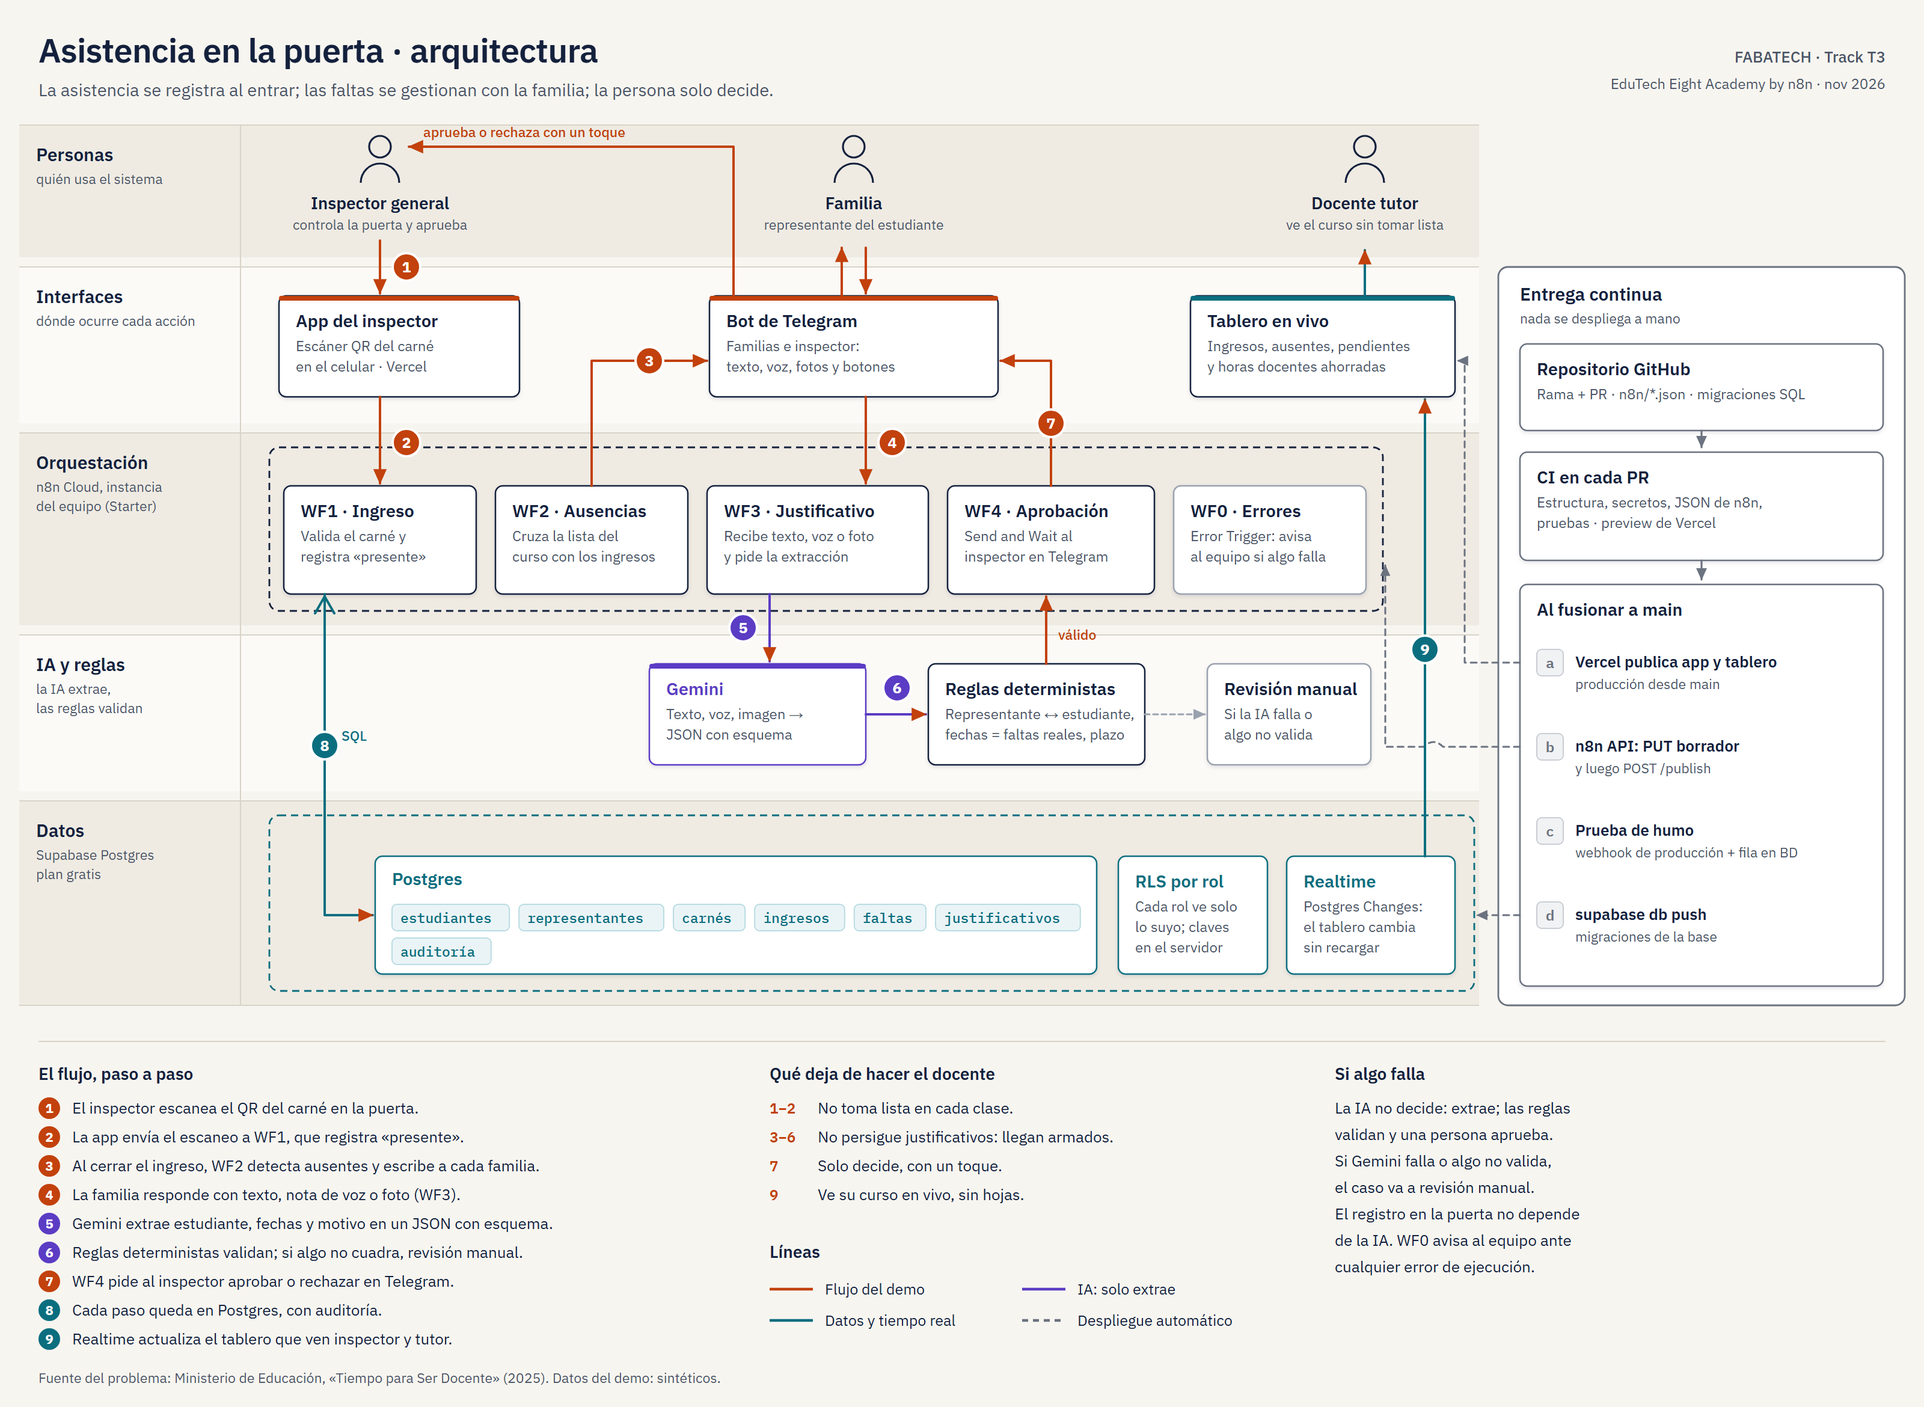
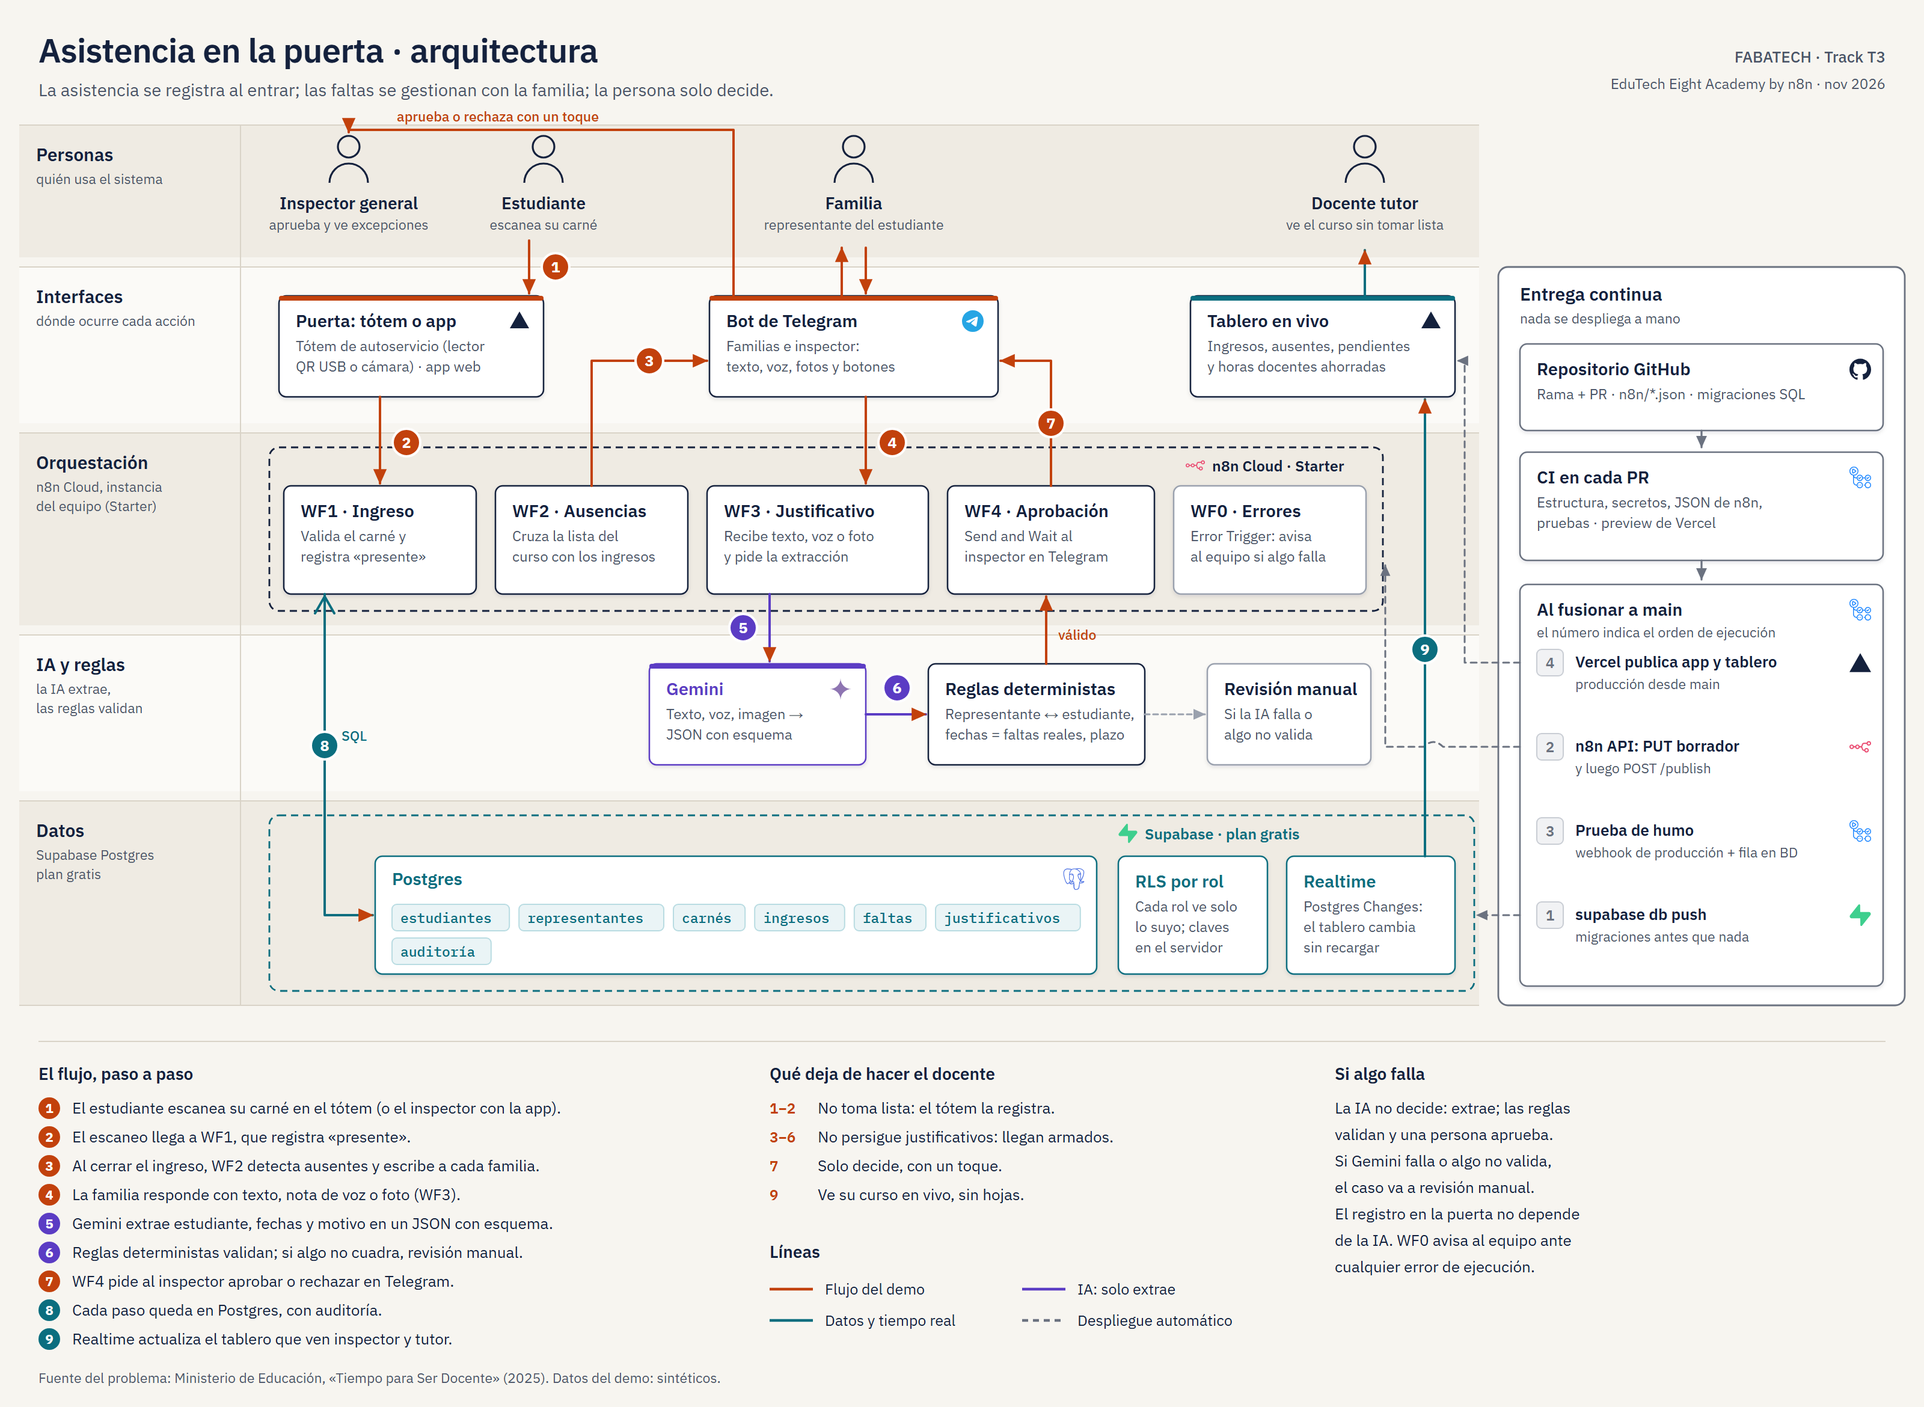
docs: diagrama con íconos oficiales, tótem de autoservicio y orden de despliegue

diff --git a/scripts/diagrama_arquitectura.py b/scripts/diagrama_arquitectura.py
@@ -58,6 +58,14 @@ def person(cx, top, name, role):
     text(cx, top + 79, role, 11.5, 400, SUB, "middle")
 
 
+ICONS = {'github': 'M12 .297c-6.63 0-12 5.373-12 12 0 5.303 3.438 9.8 8.205 11.385.6.113.82-.258.82-.577 0-.285-.01-1.04-.015-2.04-3.338.724-4.042-1.61-4.042-1.61C4.422 18.07 3.633 17.7 3.633 17.7c-1.087-.744.084-.729.084-.729 1.205.084 1.838 1.236 1.838 1.236 1.07 1.835 2.809 1.305 3.495.998.108-.776.417-1.305.76-1.605-2.665-.3-5.466-1.332-5.466-5.93 0-1.31.465-2.38 1.235-3.22-.135-.303-.54-1.523.105-3.176 0 0 1.005-.322 3.3 1.23.96-.267 1.98-.399 3-.405 1.02.006 2.04.138 3 .405 2.28-1.552 3.285-1.23 3.285-1.23.645 1.653.24 2.873.12 3.176.765.84 1.23 1.91 1.23 3.22 0 4.61-2.805 5.625-5.475 5.92.42.36.81 1.096.81 2.22 0 1.606-.015 2.896-.015 3.286 0 .315.21.69.825.57C20.565 22.092 24 17.592 24 12.297c0-6.627-5.373-12-12-12', 'githubactions': 'M10.984 13.836a.5.5 0 0 1-.353-.146l-.745-.743a.5.5 0 1 1 .706-.708l.392.391 1.181-1.18a.5.5 0 0 1 .708.707l-1.535 1.533a.504.504 0 0 1-.354.146zm9.353-.147l1.534-1.532a.5.5 0 0 0-.707-.707l-1.181 1.18-.392-.391a.5.5 0 1 0-.706.708l.746.743a.497.497 0 0 0 .706-.001zM4.527 7.452l2.557-1.585A1 1 0 0 0 7.09 4.17L4.533 2.56A1 1 0 0 0 3 3.406v3.196a1.001 1.001 0 0 0 1.527.85zm2.03-2.436L4 6.602V3.406l2.557 1.61zM24 12.5c0 1.93-1.57 3.5-3.5 3.5a3.503 3.503 0 0 1-3.46-3h-2.08a3.503 3.503 0 0 1-3.46 3 3.502 3.502 0 0 1-3.46-3h-.558c-.972 0-1.85-.399-2.482-1.042V17c0 1.654 1.346 3 3 3h.04c.244-1.693 1.7-3 3.46-3 1.93 0 3.5 1.57 3.5 3.5S13.43 24 11.5 24a3.502 3.502 0 0 1-3.46-3H8c-2.206 0-4-1.794-4-4V9.899A5.008 5.008 0 0 1 0 5c0-2.757 2.243-5 5-5s5 2.243 5 5a5.005 5.005 0 0 1-4.952 4.998A2.482 2.482 0 0 0 7.482 12h.558c.244-1.693 1.7-3 3.46-3a3.502 3.502 0 0 1 3.46 3h2.08a3.503 3.503 0 0 1 3.46-3c1.93 0 3.5 1.57 3.5 3.5zm-15 8c0 1.378 1.122 2.5 2.5 2.5s2.5-1.122 2.5-2.5-1.122-2.5-2.5-2.5S9 19.122 9 20.5zM5 9c2.206 0 4-1.794 4-4S7.206 1 5 1 1 2.794 1 5s1.794 4 4 4zm9 3.5c0-1.378-1.122-2.5-2.5-2.5S9 11.122 9 12.5s1.122 2.5 2.5 2.5 2.5-1.122 2.5-2.5zm9 0c0-1.378-1.122-2.5-2.5-2.5S18 11.122 18 12.5s1.122 2.5 2.5 2.5 2.5-1.122 2.5-2.5zm-13 8a.5.5 0 1 0 1 0 .5.5 0 0 0-1 0zm2 0a.5.5 0 1 0 1 0 .5.5 0 0 0-1 0zm12 0c0 1.93-1.57 3.5-3.5 3.5a3.503 3.503 0 0 1-3.46-3.002c-.007.001-.013.005-.021.005l-.506.017h-.017a.5.5 0 0 1-.016-.999l.506-.017c.018-.002.035.006.052.007A3.503 3.503 0 0 1 20.5 17c1.93 0 3.5 1.57 3.5 3.5zm-1 0c0-1.378-1.122-2.5-2.5-2.5S18 19.122 18 20.5s1.122 2.5 2.5 2.5 2.5-1.122 2.5-2.5z', 'googlegemini': 'M11.04 19.32Q12 21.51 12 24q0-2.49.93-4.68.96-2.19 2.58-3.81t3.81-2.55Q21.51 12 24 12q-2.49 0-4.68-.93a12.3 12.3 0 0 1-3.81-2.58 12.3 12.3 0 0 1-2.58-3.81Q12 2.49 12 0q0 2.49-.96 4.68-.93 2.19-2.55 3.81a12.3 12.3 0 0 1-3.81 2.58Q2.49 12 0 12q2.49 0 4.68.96 2.19.93 3.81 2.55t2.55 3.81', 'n8n': 'M21.4737 5.6842c-1.1772 0-2.1663.8051-2.4468 1.8947h-2.8955c-1.235 0-2.289.893-2.492 2.111l-.1038.623a1.263 1.263 0 0 1-1.246 1.0555H11.289c-.2805-1.0896-1.2696-1.8947-2.4468-1.8947s-2.1663.8051-2.4467 1.8947H4.973c-.2805-1.0896-1.2696-1.8947-2.4468-1.8947C1.1311 9.4737 0 10.6047 0 12s1.131 2.5263 2.5263 2.5263c1.1772 0 2.1663-.8051 2.4468-1.8947h1.4223c.2804 1.0896 1.2696 1.8947 2.4467 1.8947 1.1772 0 2.1663-.8051 2.4468-1.8947h1.0008a1.263 1.263 0 0 1 1.2459 1.0555l.1038.623c.203 1.218 1.257 2.111 2.492 2.111h.3692c.2804 1.0895 1.2696 1.8947 2.4468 1.8947 1.3952 0 2.5263-1.131 2.5263-2.5263s-1.131-2.5263-2.5263-2.5263c-1.1772 0-2.1664.805-2.4468 1.8947h-.3692a1.263 1.263 0 0 1-1.246-1.0555l-.1037-.623A2.52 2.52 0 0 0 13.9607 12a2.52 2.52 0 0 0 .821-1.4794l.1038-.623a1.263 1.263 0 0 1 1.2459-1.0555h2.8955c.2805 1.0896 1.2696 1.8947 2.4468 1.8947 1.3952 0 2.5263-1.131 2.5263-2.5263s-1.131-2.5263-2.5263-2.5263m0 1.2632a1.263 1.263 0 0 1 1.2631 1.2631 1.263 1.263 0 0 1-1.2631 1.2632 1.263 1.263 0 0 1-1.2632-1.2632 1.263 1.263 0 0 1 1.2632-1.2631M2.5263 10.7368A1.263 1.263 0 0 1 3.7895 12a1.263 1.263 0 0 1-1.2632 1.2632A1.263 1.263 0 0 1 1.2632 12a1.263 1.263 0 0 1 1.2631-1.2632m6.3158 0A1.263 1.263 0 0 1 10.1053 12a1.263 1.263 0 0 1-1.2632 1.2632A1.263 1.263 0 0 1 7.579 12a1.263 1.263 0 0 1 1.2632-1.2632m10.1053 3.7895a1.263 1.263 0 0 1 1.2631 1.2632 1.263 1.263 0 0 1-1.2631 1.2631 1.263 1.263 0 0 1-1.2632-1.2631 1.263 1.263 0 0 1 1.2632-1.2632', 'postgresql': 'M23.5594 14.7228a.5269.5269 0 0 0-.0563-.1191c-.139-.2632-.4768-.3418-1.0074-.2321-1.6533.3411-2.2935.1312-2.5256-.0191 1.342-2.0482 2.445-4.522 3.0411-6.8297.2714-1.0507.7982-3.5237.1222-4.7316a1.5641 1.5641 0 0 0-.1509-.235C21.6931.9086 19.8007.0248 17.5099.0005c-1.4947-.0158-2.7705.3461-3.1161.4794a9.449 9.449 0 0 0-.5159-.0816 8.044 8.044 0 0 0-1.3114-.1278c-1.1822-.0184-2.2038.2642-3.0498.8406-.8573-.3211-4.7888-1.645-7.2219.0788C.9359 2.1526.3086 3.8733.4302 6.3043c.0409.818.5069 3.334 1.2423 5.7436.4598 1.5065.9387 2.7019 1.4334 3.582.553.9942 1.1259 1.5933 1.7143 1.7895.4474.1491 1.1327.1441 1.8581-.7279.8012-.9635 1.5903-1.8258 1.9446-2.2069.4351.2355.9064.3625 1.39.3772a.0569.0569 0 0 0 .0004.0041 11.0312 11.0312 0 0 0-.2472.3054c-.3389.4302-.4094.5197-1.5002.7443-.3102.064-1.1344.2339-1.1464.8115-.0025.1224.0329.2309.0919.3268.2269.4231.9216.6097 1.015.6331 1.3345.3335 2.5044.092 3.3714-.6787-.017 2.231.0775 4.4174.3454 5.0874.2212.5529.7618 1.9045 2.4692 1.9043.2505 0 .5263-.0291.8296-.0941 1.7819-.3821 2.5557-1.1696 2.855-2.9059.1503-.8707.4016-2.8753.5388-4.1012.0169-.0703.0357-.1207.057-.1362.0007-.0005.0697-.0471.4272.0307a.3673.3673 0 0 0 .0443.0068l.2539.0223.0149.001c.8468.0384 1.9114-.1426 2.5312-.4308.6438-.2988 1.8057-1.0323 1.5951-1.6698zM2.371 11.8765c-.7435-2.4358-1.1779-4.8851-1.2123-5.5719-.1086-2.1714.4171-3.6829 1.5623-4.4927 1.8367-1.2986 4.8398-.5408 6.108-.13-.0032.0032-.0066.0061-.0098.0094-2.0238 2.044-1.9758 5.536-1.9708 5.7495-.0002.0823.0066.1989.0162.3593.0348.5873.0996 1.6804-.0735 2.9184-.1609 1.1504.1937 2.2764.9728 3.0892.0806.0841.1648.1631.2518.2374-.3468.3714-1.1004 1.1926-1.9025 2.1576-.5677.6825-.9597.5517-1.0886.5087-.3919-.1307-.813-.5871-1.2381-1.3223-.4796-.839-.9635-2.0317-1.4155-3.5126zm6.0072 5.0871c-.1711-.0428-.3271-.1132-.4322-.1772.0889-.0394.2374-.0902.4833-.1409 1.2833-.2641 1.4815-.4506 1.9143-1.0002.0992-.126.2116-.2687.3673-.4426a.3549.3549 0 0 0 .0737-.1298c.1708-.1513.2724-.1099.4369-.0417.156.0646.3078.26.3695.4752.0291.1016.0619.2945-.0452.4444-.9043 1.2658-2.2216 1.2494-3.1676 1.0128zm2.094-3.988-.0525.141c-.133.3566-.2567.6881-.3334 1.003-.6674-.0021-1.3168-.2872-1.8105-.8024-.6279-.6551-.9131-1.5664-.7825-2.5004.1828-1.3079.1153-2.4468.079-3.0586-.005-.0857-.0095-.1607-.0122-.2199.2957-.2621 1.6659-.9962 2.6429-.7724.4459.1022.7176.4057.8305.928.5846 2.7038.0774 3.8307-.3302 4.7363-.084.1866-.1633.3629-.2311.5454zm7.3637 4.5725c-.0169.1768-.0358.376-.0618.5959l-.146.4383a.3547.3547 0 0 0-.0182.1077c-.0059.4747-.054.6489-.115.8693-.0634.2292-.1353.4891-.1794 1.0575-.11 1.4143-.8782 2.2267-2.4172 2.5565-1.5155.3251-1.7843-.4968-2.0212-1.2217a6.5824 6.5824 0 0 0-.0769-.2266c-.2154-.5858-.1911-1.4119-.1574-2.5551.0165-.5612-.0249-1.9013-.3302-2.6462.0044-.2932.0106-.5909.019-.8918a.3529.3529 0 0 0-.0153-.1126 1.4927 1.4927 0 0 0-.0439-.208c-.1226-.4283-.4213-.7866-.7797-.9351-.1424-.059-.4038-.1672-.7178-.0869.067-.276.1831-.5875.309-.9249l.0529-.142c.0595-.16.134-.3257.213-.5012.4265-.9476 1.0106-2.2453.3766-5.1772-.2374-1.0981-1.0304-1.6343-2.2324-1.5098-.7207.0746-1.3799.3654-1.7088.5321a5.6716 5.6716 0 0 0-.1958.1041c.0918-1.1064.4386-3.1741 1.7357-4.4823a4.0306 4.0306 0 0 1 .3033-.276.3532.3532 0 0 0 .1447-.0644c.7524-.5706 1.6945-.8506 2.802-.8325.4091.0067.8017.0339 1.1742.081 1.939.3544 3.2439 1.4468 4.0359 2.3827.8143.9623 1.2552 1.9315 1.4312 2.4543-1.3232-.1346-2.2234.1268-2.6797.779-.9926 1.4189.543 4.1729 1.2811 5.4964.1353.2426.2522.4522.2889.5413.2403.5825.5515.9713.7787 1.2552.0696.087.1372.1714.1885.245-.4008.1155-1.1208.3825-1.0552 1.717-.0123.1563-.0423.4469-.0834.8148-.0461.2077-.0702.4603-.0994.7662zm.8905-1.6211c-.0405-.8316.2691-.9185.5967-1.0105a2.8566 2.8566 0 0 0 .135-.0406 1.202 1.202 0 0 0 .1342.103c.5703.3765 1.5823.4213 3.0068.1344-.2016.1769-.5189.3994-.9533.6011-.4098.1903-1.0957.333-1.7473.3636-.7197.0336-1.0859-.0807-1.1721-.151zm.5695-9.2712c-.0059.3508-.0542.6692-.1054 1.0017-.055.3576-.112.7274-.1264 1.1762-.0142.4368.0404.8909.0932 1.3301.1066.887.216 1.8003-.2075 2.7014a3.5272 3.5272 0 0 1-.1876-.3856c-.0527-.1276-.1669-.3326-.3251-.6162-.6156-1.1041-2.0574-3.6896-1.3193-4.7446.3795-.5427 1.3408-.5661 2.1781-.463zm.2284 7.0137a12.3762 12.3762 0 0 0-.0853-.1074l-.0355-.0444c.7262-1.1995.5842-2.3862.4578-3.4385-.0519-.4318-.1009-.8396-.0885-1.2226.0129-.4061.0666-.7543.1185-1.0911.0639-.415.1288-.8443.1109-1.3505.0134-.0531.0188-.1158.0118-.1902-.0457-.4855-.5999-1.938-1.7294-3.253-.6076-.7073-1.4896-1.4972-2.6889-2.0395.5251-.1066 1.2328-.2035 2.0244-.1859 2.0515.0456 3.6746.8135 4.8242 2.2824a.908.908 0 0 1 .0667.1002c.7231 1.3556-.2762 6.2751-2.9867 10.5405zm-8.8166-6.1162c-.025.1794-.3089.4225-.6211.4225a.5821.5821 0 0 1-.0809-.0056c-.1873-.026-.3765-.144-.5059-.3156-.0458-.0605-.1203-.178-.1055-.2844.0055-.0401.0261-.0985.0925-.1488.1182-.0894.3518-.1226.6096-.0867.3163.0441.6426.1938.6113.4186zm7.9305-.4114c.0111.0792-.049.201-.1531.3102-.0683.0717-.212.1961-.4079.2232a.5456.5456 0 0 1-.075.0052c-.2935 0-.5414-.2344-.5607-.3717-.024-.1765.2641-.3106.5611-.352.297-.0414.6111.0088.6356.1851z', 'supabase': 'M11.9 1.036c-.015-.986-1.26-1.41-1.874-.637L.764 12.05C-.33 13.427.65 15.455 2.409 15.455h9.579l.113 7.51c.014.985 1.259 1.408 1.873.636l9.262-11.653c1.093-1.375.113-3.403-1.645-3.403h-9.642z', 'telegram': 'M11.944 0A12 12 0 0 0 0 12a12 12 0 0 0 12 12 12 12 0 0 0 12-12A12 12 0 0 0 12 0a12 12 0 0 0-.056 0zm4.962 7.224c.1-.002.321.023.465.14a.506.506 0 0 1 .171.325c.016.093.036.306.02.472-.18 1.898-.962 6.502-1.36 8.627-.168.9-.499 1.201-.82 1.23-.696.065-1.225-.46-1.9-.902-1.056-.693-1.653-1.124-2.678-1.8-1.185-.78-.417-1.21.258-1.91.177-.184 3.247-2.977 3.307-3.23.007-.032.014-.15-.056-.212s-.174-.041-.249-.024c-.106.024-1.793 1.14-5.061 3.345-.48.33-.913.49-1.302.48-.428-.008-1.252-.241-1.865-.44-.752-.245-1.349-.374-1.297-.789.027-.216.325-.437.893-.663 3.498-1.524 5.83-2.529 6.998-3.014 3.332-1.386 4.025-1.627 4.476-1.635z', 'vercel': 'M24 22.525H0l12-21.05 12 21.05z'}
+
+
+def icon(slug, x, y, size, color):
+    k = size / 24
+    add(f'<g transform="translate({x} {y}) scale({k})"><path d="{ICONS[slug]}" fill="{color}"/></g>')
+
+
 # ---------- lienzo ----------
 add(f'<rect width="{W}" height="{H}" fill="{PAPER}"/>')
 text(32, 52, "Asistencia en la puerta · arquitectura", 28, 600, INK, spacing=-0.4)
@@ -83,17 +91,23 @@ add('<line x1="200" y1="104" x2="200" y2="836" stroke="#D9D3C7" stroke-width="1"
 add('<line x1="16" y1="836" x2="1230" y2="836" stroke="#D9D3C7" stroke-width="1"/>')
 
 # ---------- A · personas ----------
-person(316, 112, "Inspector general", "controla la puerta y aprueba")
+person(290, 112, "Inspector general", "aprueba y ve excepciones")
+person(452, 112, "Estudiante", "escanea su carné")
 person(710, 112, "Familia", "representante del estudiante")
 person(1135, 112, "Docente tutor", "ve el curso sin tomar lista")
 
 # ---------- B · interfaces ----------
-box(232, 246, 200, 84, "App del inspector", ["Escáner QR del carné", "en el celular · Vercel"], accent=FLOW)
+box(232, 246, 220, 84, "Puerta: tótem o app", ["Tótem de autoservicio (lector", "QR USB o cámara) · app web"], accent=FLOW)
+icon("vercel", 424, 258, 16, INK)
 box(590, 246, 240, 84, "Bot de Telegram", ["Familias e inspector:", "texto, voz, fotos y botones"], accent=FLOW)
+icon("telegram", 800, 258, 18, "#26A5E4")
 box(990, 246, 220, 84, "Tablero en vivo", ["Ingresos, ausentes, pendientes", "y horas docentes ahorradas"], accent=DATA)
+icon("vercel", 1182, 258, 16, INK)
 
 # ---------- C · n8n ----------
 add(f'<rect x="224" y="372" width="926" height="136" rx="8" fill="none" stroke="{INK}" stroke-width="1.4" stroke-dasharray="6 4"/>')
+icon("n8n", 986, 379, 16, "#EA4B71")
+text(1008, 392, "n8n Cloud · Starter", 12.5, 600, INK)
 box(236, 404, 160, 90, "WF1 · Ingreso", ["Valida el carné y", "registra «presente»"])
 box(412, 404, 160, 90, "WF2 · Ausencias", ["Cruza la lista del", "curso con los ingresos"])
 box(588, 404, 184, 90, "WF3 · Justificativo", ["Recibe texto, voz o foto", "y pide la extracción"])
@@ -102,6 +116,7 @@ box(976, 404, 160, 90, "WF0 · Errores", ["Error Trigger: avisa", "al equipo si 
 
 # ---------- D · IA y reglas ----------
 box(540, 552, 180, 84, "Gemini", ["Texto, voz, imagen →", "JSON con esquema"], stroke=AI, title_fill=AI, accent=AI)
+icon("googlegemini", 690, 564, 18, "#8E75B2")
 box(772, 552, 180, 84, "Reglas deterministas", ["Representante ↔ estudiante,", "fechas = faltas reales, plazo"])
 box(1004, 552, 136, 84, "Revisión manual", ["Si la IA falla o", "algo no valida"], stroke="#9AA1AE")
 
@@ -109,6 +124,9 @@ box(1004, 552, 136, 84, "Revisión manual", ["Si la IA falla o", "algo no valida
 add(f'<rect x="224" y="678" width="1002" height="146" rx="8" fill="none" stroke="{DATA}" stroke-width="1.4" stroke-dasharray="6 4"/>')
 add(f'<rect x="312" y="712" width="600" height="98" rx="6" fill="#FFFFFF" stroke="{DATA}" stroke-width="1.25" filter="url(#lift)"/>')
 text(326, 736, "Postgres", 14.5, 600, DATA)
+icon("postgresql", 884, 722, 18, "#4169E1")
+icon("supabase", 930, 685, 16, "#3ECF8E")
+text(952, 698, "Supabase · plan gratis", 12.5, 600, DATA)
 chips = ["estudiantes", "representantes", "carnés", "ingresos", "faltas", "justificativos", "auditoría"]
 cx, cy = 326, 752
 for c in chips:
@@ -126,23 +144,28 @@ add(f'<rect x="1246" y="222" width="338" height="614" rx="8" fill="#FFFFFF" stro
 text(1264, 250, "Entrega continua", 15, 600, INK)
 text(1264, 269, "nada se despliega a mano", 11.5, 400, SUB)
 box(1264, 286, 302, 72, "Repositorio GitHub", ["Rama + PR · n8n/*.json · migraciones SQL"], stroke=DEPLOY)
+icon("github", 1538, 298, 18, INK)
 box(1264, 376, 302, 90, "CI en cada PR", ["Estructura, secretos, JSON de n8n,", "pruebas · preview de Vercel"], stroke=DEPLOY)
+icon("githubactions", 1538, 388, 18, "#2088FF")
 path("M1415 358 L1415 372", DEPLOY, 1.6, marker="arrg")
 path("M1415 466 L1415 482", DEPLOY, 1.6, marker="arrg")
 add(f'<rect x="1264" y="486" width="302" height="334" rx="6" fill="#FFFFFF" stroke="{DEPLOY}" stroke-width="1.25" filter="url(#lift)"/>')
 text(1278, 512, "Al fusionar a main", 14.5, 600, INK)
+icon("githubactions", 1538, 498, 18, "#2088FF")
+text(1278, 530, "el número indica el orden de ejecución", 11.5, 400, SUB)
 steps = [
-    ("a", "Vercel publica app y tablero", "producción desde main"),
-    ("b", "n8n API: PUT borrador", "y luego POST /publish"),
-    ("c", "Prueba de humo", "webhook de producción + fila en BD"),
-    ("d", "supabase db push", "migraciones de la base"),
+    ("4", "Vercel publica app y tablero", "producción desde main", "vercel", INK),
+    ("2", "n8n API: PUT borrador", "y luego POST /publish", "n8n", "#EA4B71"),
+    ("3", "Prueba de humo", "webhook de producción + fila en BD", "githubactions", "#2088FF"),
+    ("1", "supabase db push", "migraciones antes que nada", "supabase", "#3ECF8E"),
 ]
-for i, (k, t1, t2) in enumerate(steps):
+for i, (k, t1, t2, ic, icc) in enumerate(steps):
     y0 = 540 + i * 70
     add(f'<rect x="1278" y="{y0}" width="22" height="22" rx="4" fill="#F1F2F4" stroke="#C9CDD4"/>')
     text(1289, y0 + 15.5, k, 12, 600, DEPLOY, "middle", family="mono")
     text(1310, y0 + 15, t1, 13, 600, INK)
     text(1310, y0 + 33, t2, 11.5, 400, SUB)
+    icon(ic, 1538, y0 + 2, 18, icc)
 
 # despliegues (gris punteado)
 path("M1264 551 L1218 551 L1218 300 L1212 300", DEPLOY, 1.5, "5 4", "arrg")
@@ -150,8 +173,8 @@ path("M1264 621 L1200 621 Q1192 613 1184 621 L1152 621 L1152 470", DEPLOY, 1.5, 
 path("M1264 761 L1228 761", DEPLOY, 1.5, "5 4", "arrg")
 
 # ---------- flujo del demo (numerado) ----------
-path("M316 200 L316 244")                       # 1 inspector -> app
-badge(338, 222, 1)
+path("M440 200 L440 244")                       # 1 estudiante -> puerta
+badge(462, 222, 1)
 path("M316 330 L316 402")                       # 2 app -> WF1
 badge(338, 368, 2)
 path("M492 404 L492 300 L588 300")              # 3 WF2 -> bot -> familia
@@ -168,9 +191,9 @@ path("M870 552 L870 496")                       # reglas -> WF4 (válido)
 label(880, 532, "válido")
 path("M952 594 L1002 594", "#9AA1AE", 1.6, "4 3", "arrs")
 path("M874 404 L874 300 L832 300")              # 7 WF4 -> bot -> inspector
-path("M610 246 L610 122 L340 122")
+path("M610 246 L610 108 L290 108 L290 110")
 badge(874, 352, 7)
-label(352, 114, "aprueba o rechaza con un toque")
+label(330, 101, "aprueba o rechaza con un toque")
 path("M270 494 L270 761 L310 761", DATA, 2)     # 8 n8n <-> Postgres
 add(f'<path d="M262 510 L270 496 L278 510" fill="none" stroke="{DATA}" stroke-width="2" stroke-linecap="round"/>')
 badge(270, 620, 8, DATA)
@@ -183,8 +206,8 @@ badge(1185, 540, 9, DATA)
 add('<line x1="32" y1="866" x2="1568" y2="866" stroke="#D9D3C7"/>')
 text(32, 898, "El flujo, paso a paso", 14, 600, INK)
 flujo = [
-    "El inspector escanea el QR del carné en la puerta.",
-    "La app envía el escaneo a WF1, que registra «presente».",
+    "El estudiante escanea su carné en el tótem (o el inspector con la app).",
+    "El escaneo llega a WF1, que registra «presente».",
     "Al cerrar el ingreso, WF2 detecta ausentes y escribe a cada familia.",
     "La familia responde con texto, nota de voz o foto (WF3).",
     "Gemini extrae estudiante, fechas y motivo en un JSON con esquema.",
@@ -202,7 +225,7 @@ for i, t in enumerate(flujo):
 
 text(640, 898, "Qué deja de hacer el docente", 14, 600, INK)
 gain = [
-    ("1–2", "No toma lista en cada clase."),
+    ("1–2", "No toma lista: el tótem la registra."),
     ("3–6", "No persigue justificativos: llegan armados."),
     ("7", "Solo decide, con un toque."),
     ("9", "Ve su curso en vivo, sin hojas."),
